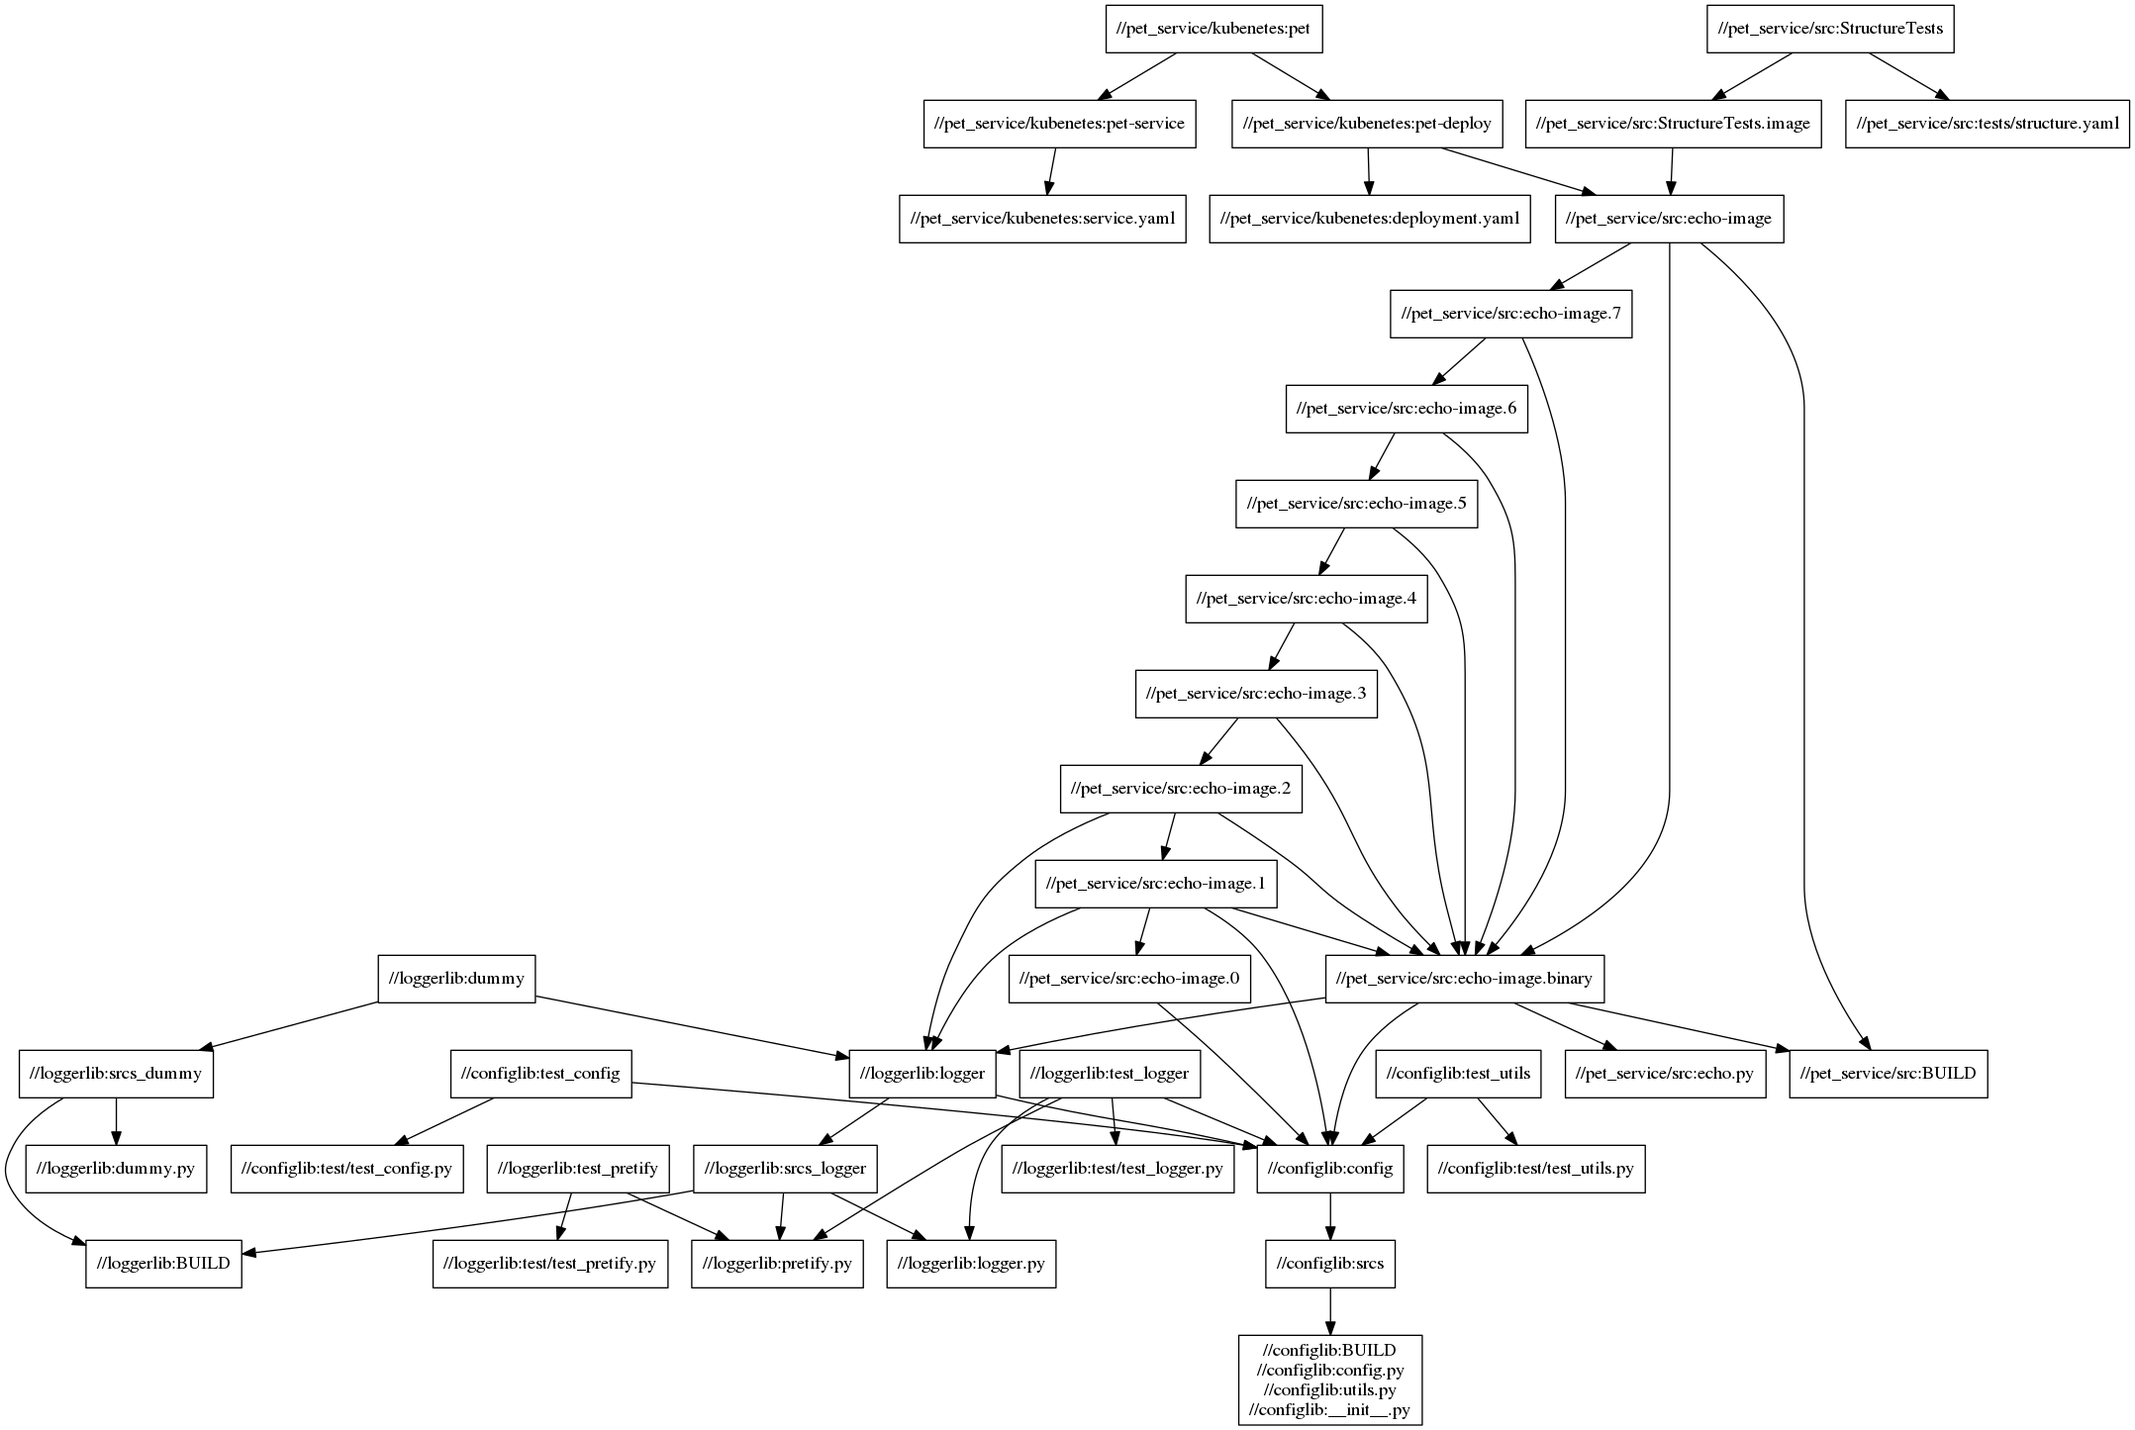
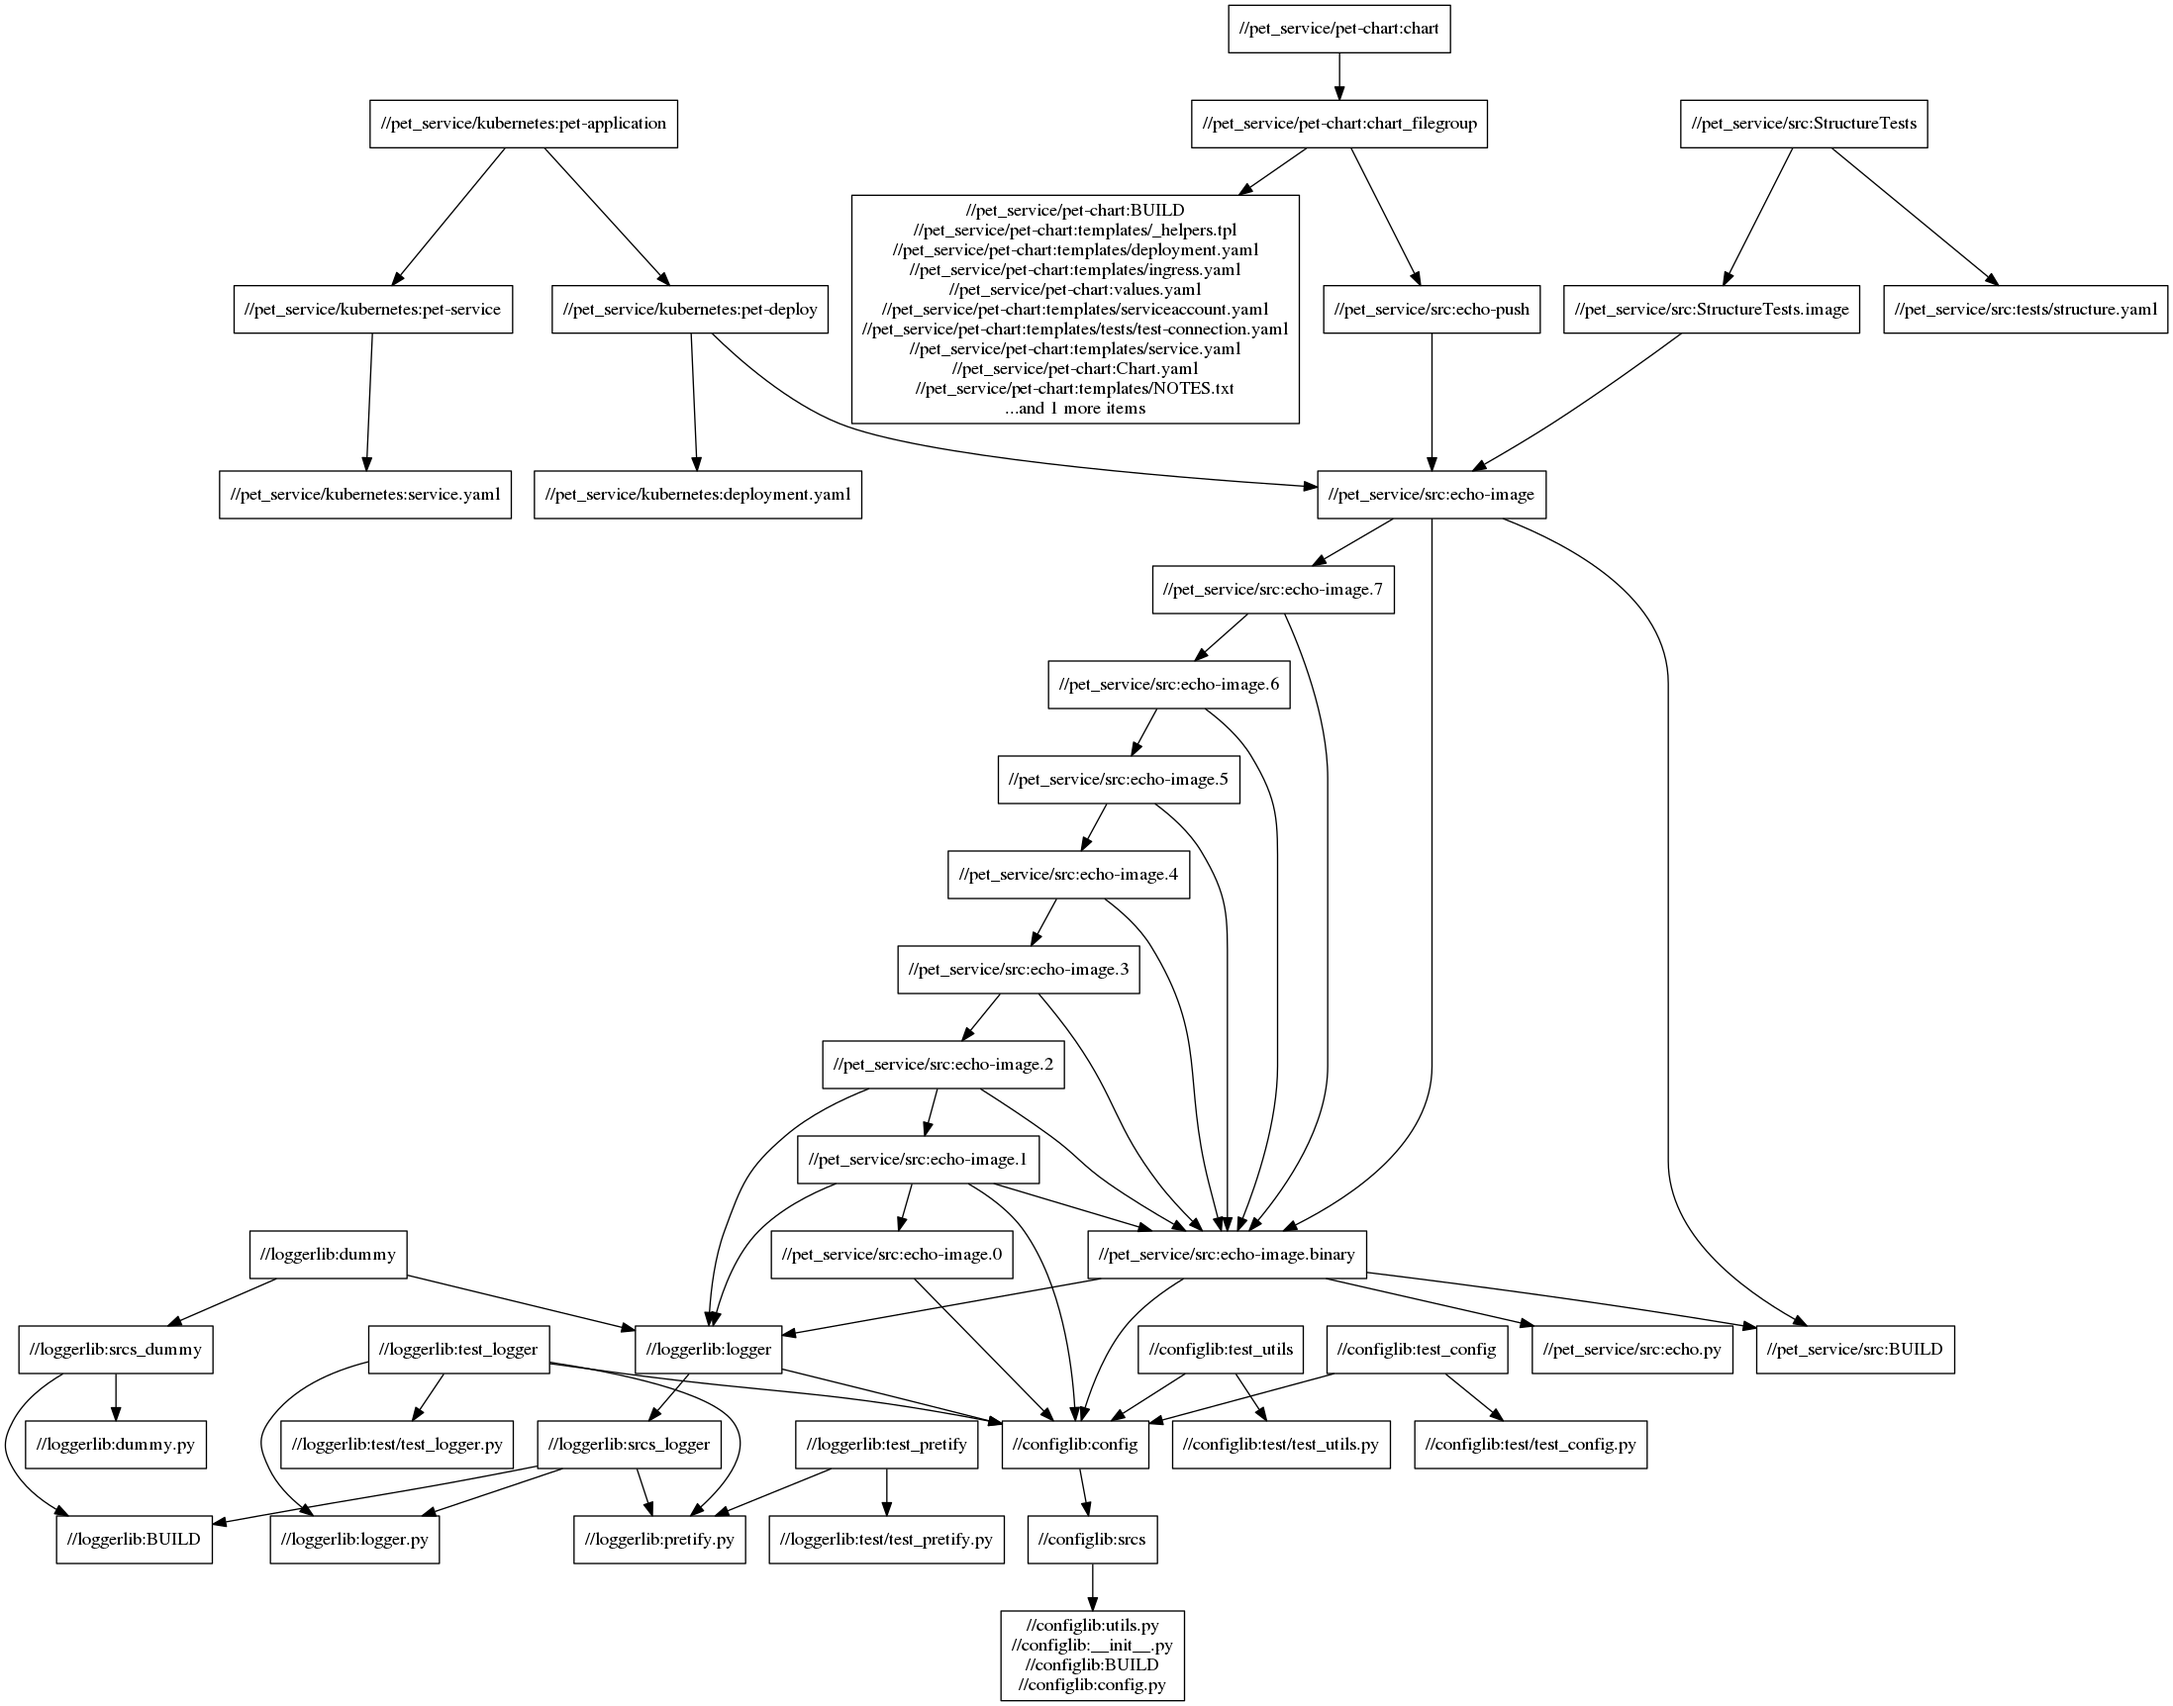
Adding helm functionalityu

diff --git a/README.md b/README.md
@@ -7,6 +7,7 @@ docker login  <-  marcecaro
 
 ```
 curl -v localhost:8001/api/v1/namespaces/default/services/echo/proxy/
+curl -v localhost:8001/api/v1/namespaces/pet/services/echo/proxy/
 kubectl logs -l app=echo-deploy
 ./deploy_impacted 
 ./test_impacted 
